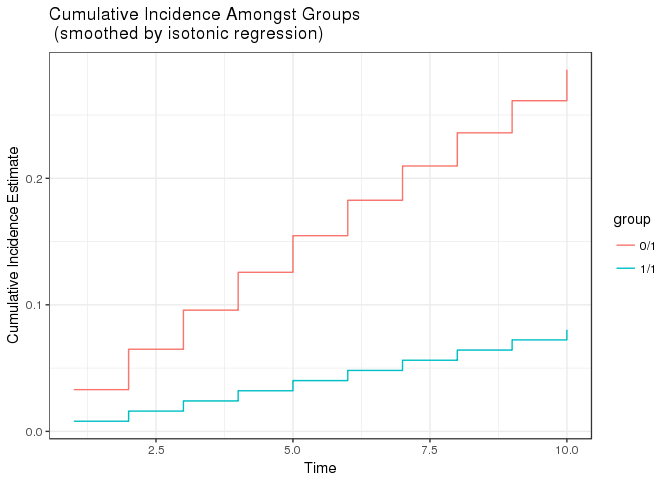
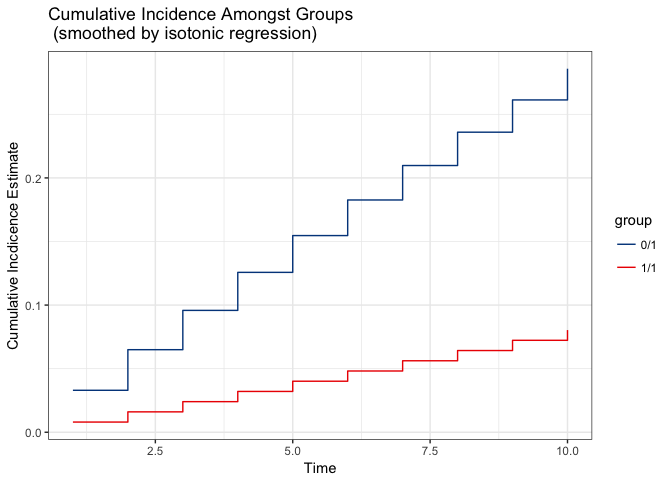
rebuild readme, site; re-style

diff --git a/docs/index.html b/docs/index.html
@@ -78,9 +78,7 @@
     
 <div class="contents">
 <!-- README.md is generated from README.Rmd. Please edit that file -->
-<div id="rsurvtmle" class="section level1">
-<div class="page-header"><h1 class="hasAnchor">
-<a href="#rsurvtmle" class="anchor"></a>R/<code>survtmle</code>
+<section id="rsurvtmle" class="level1"><div class="page-header"><h1>R/<code>survtmle</code>
 </h1></div>
 
 <blockquote>
@@ -88,19 +86,13 @@
 </blockquote>
 <p><strong>Authors:</strong> <a href="https://www.benkeserstatistics.com/">David Benkeser</a> and <a href="http://nimahejazi.org">Nima Hejazi</a></p>
 <hr>
-<div id="description" class="section level2">
-<h2 class="hasAnchor">
-<a href="#description" class="anchor"></a>Description</h2>
+<section id="description" class="level2"><h2>Description</h2>
 <p><code>survtmle</code> is an R package designed to use targeted minimum loss-based estimation (TMLE) to compute covariate-adjusted marginal cumulative incidence estimates in right-censored survival settings with and without competing risks. The estimates can leverage ensemble machine learning via the <code>SuperLearner</code> package.</p>
-<hr>
-</div>
-<div id="installation" class="section level2">
-<h2 class="hasAnchor">
-<a href="#installation" class="anchor"></a>Installation</h2>
+<hr></section><section id="installation" class="level2"><h2>Installation</h2>
 <p>For standard use, we recommend installing the package from <a href="https://cran.r-project.org/">CRAN</a> via</p>
-<div class="sourceCode"><pre class="sourceCode r"><code class="sourceCode r"><span class="kw">install.packages</span>(<span class="st">"survtmle"</span>)</code></pre></div>
+<div class="sourceCode" id="cb1"><pre class="sourceCode r"><code class="sourceCode r"><a class="sourceLine" id="cb1-1" data-line-number="1"><span class="kw">install.packages</span>(<span class="st">"survtmle"</span>)</a></code></pre></div>
 <p>You can install a stable release of <code>survtmle</code> from GitHub via <a href="https://www.rstudio.com/products/rpackages/devtools/"><code>devtools</code></a> with:</p>
-<div class="sourceCode"><pre class="sourceCode r"><code class="sourceCode r">devtools::<span class="kw">install_github</span>(<span class="st">"benkeser/survtmle"</span>)</code></pre></div>
+<div class="sourceCode" id="cb2"><pre class="sourceCode r"><code class="sourceCode r"><a class="sourceLine" id="cb2-1" data-line-number="1">devtools<span class="op">::</span><span class="kw"><a href="http://www.rdocumentation.org/packages/devtools/topics/install_github">install_github</a></span>(<span class="st">"benkeser/survtmle"</span>)</a></code></pre></div>
 <!--
 To contribute, install the _development version_ from GitHub via
 [`devtools`](https://www.rstudio.com/products/rpackages/devtools/):
@@ -110,77 +102,61 @@ To contribute, install the _development version_ from GitHub via
 devtools::install_github("benkeser/survtmle", ref = "develop")
 ```
 -->
-<hr>
-</div>
-<div id="issues" class="section level2">
-<h2 class="hasAnchor">
-<a href="#issues" class="anchor"></a>Issues</h2>
+<hr></section><section id="issues" class="level2"><h2>Issues</h2>
 <p>If you encounter any bugs or have any specific feature requests, please <a href="https://github.com/benkeser/survtmle/issues">file an issue</a>.</p>
-<hr>
-</div>
-<div id="example" class="section level2">
-<h2 class="hasAnchor">
-<a href="#example" class="anchor"></a>Example</h2>
+<hr></section><section id="example" class="level2"><h2>Example</h2>
 <p>This minimal example shows how to use <code>survtmle</code> to obtain cumulative incidence estimates with a very simple, simulated data set.</p>
-<div class="sourceCode"><pre class="sourceCode r"><code class="sourceCode r"><span class="co"># simulate data</span>
-<span class="kw">set.seed</span>(<span class="dv">341796</span>)
-n &lt;-<span class="st"> </span><span class="dv">100</span>
-t_0 &lt;-<span class="st"> </span><span class="dv">10</span>
-W &lt;-<span class="st"> </span><span class="kw">data.frame</span>(<span class="dt">W1 =</span> <span class="kw">runif</span>(n), <span class="dt">W2 =</span> <span class="kw">rbinom</span>(n, <span class="dv">1</span>, <span class="fl">0.5</span>))
-A &lt;-<span class="st"> </span><span class="kw">rbinom</span>(n, <span class="dv">1</span>, <span class="fl">0.5</span>)
-T &lt;-<span class="st"> </span><span class="kw">rgeom</span>(n,<span class="kw">plogis</span>(-<span class="dv">4</span> +<span class="st"> </span>W$W1 *<span class="st"> </span>W$W2 -<span class="st"> </span>A)) +<span class="st"> </span><span class="dv">1</span>
-C &lt;-<span class="st"> </span><span class="kw">rgeom</span>(n, <span class="kw">plogis</span>(-<span class="dv">6</span> +<span class="st"> </span>W$W1)) +<span class="st"> </span><span class="dv">1</span>
-ftime &lt;-<span class="st"> </span><span class="kw">pmin</span>(T, C)
-ftype &lt;-<span class="st"> </span><span class="kw">as.numeric</span>(ftime ==<span class="st"> </span>T)
-
-<span class="co"># load the package</span>
-<span class="kw">library</span>(survtmle)
-<span class="co">#&gt; survtmle: Targeted Learning for Survival Analysis</span>
-<span class="co">#&gt; Version: 1.0.3</span>
-
-<span class="co"># apply survtmle for estimation</span>
-fit &lt;-<span class="st"> </span><span class="kw"><a href="reference/survtmle.html">survtmle</a></span>(<span class="dt">ftime =</span> ftime, <span class="dt">ftype =</span> ftype,
-                <span class="dt">trt =</span> A, <span class="dt">adjustVars =</span> W,
-                <span class="dt">glm.trt =</span> <span class="st">"1"</span>,
-                <span class="dt">glm.ftime =</span> <span class="st">"I(W1*W2) + trt + t"</span>,
-                <span class="dt">glm.ctime =</span> <span class="st">"W1 + t"</span>, <span class="dt">method =</span> <span class="st">"hazard"</span>,
-                <span class="dt">t0 =</span> t_0)
-
-<span class="co"># extract cumulative incidence at each timepoint</span>
-tpfit &lt;-<span class="st"> </span><span class="kw"><a href="reference/timepoints.html">timepoints</a></span>(fit, <span class="dt">times =</span> <span class="kw">seq_len</span>(t_0))
-
-<span class="co"># examine output object produced by the timepoints function</span>
-tpfit
-<span class="co">#&gt; $est</span>
-<span class="co">#&gt;              t1         t2         t3         t4         t5         t6</span>
-<span class="co">#&gt; 0 1 0.032997470 0.06492788 0.09582530 0.12572293 0.15465313 0.18264737</span>
-<span class="co">#&gt; 1 1 0.008014555 0.01603567 0.02406256 0.03209448 0.04013064 0.04817027</span>
-<span class="co">#&gt;             t7         t8         t9        t10</span>
-<span class="co">#&gt; 0 1 0.20973629 0.23594966 0.26131640 0.28586459</span>
-<span class="co">#&gt; 1 1 0.05621257 0.06425675 0.07230203 0.08034761</span>
-<span class="co">#&gt; </span>
-<span class="co">#&gt; $var</span>
-<span class="co">#&gt;               t1           t2           t3           t4           t5</span>
-<span class="co">#&gt; 0 1 4.565496e-04 0.0005099637 0.0004951975 0.0004852183 0.0005862762</span>
-<span class="co">#&gt; 1 1 2.111604e-06 0.0003345475 0.0003208485 0.0003079889 0.0006317931</span>
-<span class="co">#&gt;               t6           t7           t8           t9         t10</span>
-<span class="co">#&gt; 0 1 0.0012883360 0.0013743743 0.0012847990 0.0020298371 0.003137739</span>
-<span class="co">#&gt; 1 1 0.0006229943 0.0009761833 0.0009544762 0.0009534062 0.000956650</span>
-
-<span class="co"># examine plot of cumulative incidences</span>
-<span class="kw">plot</span>(tpfit)</code></pre></div>
+<div class="sourceCode" id="cb3"><pre class="sourceCode r"><code class="sourceCode r"><a class="sourceLine" id="cb3-1" data-line-number="1"><span class="co"># simulate data</span></a>
+<a class="sourceLine" id="cb3-2" data-line-number="2"><span class="kw">set.seed</span>(<span class="dv">341796</span>)</a>
+<a class="sourceLine" id="cb3-3" data-line-number="3">n &lt;-<span class="st"> </span><span class="dv">100</span></a>
+<a class="sourceLine" id="cb3-4" data-line-number="4">t_<span class="dv">0</span> &lt;-<span class="st"> </span><span class="dv">10</span></a>
+<a class="sourceLine" id="cb3-5" data-line-number="5">W &lt;-<span class="st"> </span><span class="kw">data.frame</span>(<span class="dt">W1 =</span> <span class="kw">runif</span>(n), <span class="dt">W2 =</span> <span class="kw">rbinom</span>(n, <span class="dv">1</span>, <span class="fl">0.5</span>))</a>
+<a class="sourceLine" id="cb3-6" data-line-number="6">A &lt;-<span class="st"> </span><span class="kw">rbinom</span>(n, <span class="dv">1</span>, <span class="fl">0.5</span>)</a>
+<a class="sourceLine" id="cb3-7" data-line-number="7">T &lt;-<span class="st"> </span><span class="kw">rgeom</span>(n,<span class="kw">plogis</span>(<span class="op">-</span><span class="dv">4</span> <span class="op">+</span><span class="st"> </span>W<span class="op">$</span>W1 <span class="op">*</span><span class="st"> </span>W<span class="op">$</span>W2 <span class="op">-</span><span class="st"> </span>A)) <span class="op">+</span><span class="st"> </span><span class="dv">1</span></a>
+<a class="sourceLine" id="cb3-8" data-line-number="8">C &lt;-<span class="st"> </span><span class="kw">rgeom</span>(n, <span class="kw">plogis</span>(<span class="op">-</span><span class="dv">6</span> <span class="op">+</span><span class="st"> </span>W<span class="op">$</span>W1)) <span class="op">+</span><span class="st"> </span><span class="dv">1</span></a>
+<a class="sourceLine" id="cb3-9" data-line-number="9">ftime &lt;-<span class="st"> </span><span class="kw">pmin</span>(T, C)</a>
+<a class="sourceLine" id="cb3-10" data-line-number="10">ftype &lt;-<span class="st"> </span><span class="kw">as.numeric</span>(ftime <span class="op">==</span><span class="st"> </span>T)</a>
+<a class="sourceLine" id="cb3-11" data-line-number="11"></a>
+<a class="sourceLine" id="cb3-12" data-line-number="12"><span class="co"># load the package</span></a>
+<a class="sourceLine" id="cb3-13" data-line-number="13"><span class="kw">library</span>(survtmle)</a>
+<a class="sourceLine" id="cb3-14" data-line-number="14"><span class="co">#&gt; survtmle: Targeted Learning for Survival Analysis</span></a>
+<a class="sourceLine" id="cb3-15" data-line-number="15"><span class="co">#&gt; Version: 1.0.3</span></a>
+<a class="sourceLine" id="cb3-16" data-line-number="16"></a>
+<a class="sourceLine" id="cb3-17" data-line-number="17"><span class="co"># apply survtmle for estimation</span></a>
+<a class="sourceLine" id="cb3-18" data-line-number="18">fit &lt;-<span class="st"> </span><span class="kw"><a href="reference/survtmle.html">survtmle</a></span>(<span class="dt">ftime =</span> ftime, <span class="dt">ftype =</span> ftype,</a>
+<a class="sourceLine" id="cb3-19" data-line-number="19">                <span class="dt">trt =</span> A, <span class="dt">adjustVars =</span> W,</a>
+<a class="sourceLine" id="cb3-20" data-line-number="20">                <span class="dt">glm.trt =</span> <span class="st">"1"</span>,</a>
+<a class="sourceLine" id="cb3-21" data-line-number="21">                <span class="dt">glm.ftime =</span> <span class="st">"I(W1*W2) + trt + t"</span>,</a>
+<a class="sourceLine" id="cb3-22" data-line-number="22">                <span class="dt">glm.ctime =</span> <span class="st">"W1 + t"</span>, <span class="dt">method =</span> <span class="st">"hazard"</span>,</a>
+<a class="sourceLine" id="cb3-23" data-line-number="23">                <span class="dt">t0 =</span> t_<span class="dv">0</span>)</a>
+<a class="sourceLine" id="cb3-24" data-line-number="24"></a>
+<a class="sourceLine" id="cb3-25" data-line-number="25"><span class="co"># extract cumulative incidence at each timepoint</span></a>
+<a class="sourceLine" id="cb3-26" data-line-number="26">tpfit &lt;-<span class="st"> </span><span class="kw"><a href="reference/timepoints.html">timepoints</a></span>(fit, <span class="dt">times =</span> <span class="kw">seq_len</span>(t_<span class="dv">0</span>))</a>
+<a class="sourceLine" id="cb3-27" data-line-number="27"></a>
+<a class="sourceLine" id="cb3-28" data-line-number="28"><span class="co"># examine output object produced by the timepoints function</span></a>
+<a class="sourceLine" id="cb3-29" data-line-number="29">tpfit</a>
+<a class="sourceLine" id="cb3-30" data-line-number="30"><span class="co">#&gt; $est</span></a>
+<a class="sourceLine" id="cb3-31" data-line-number="31"><span class="co">#&gt;              t1         t2         t3         t4         t5         t6</span></a>
+<a class="sourceLine" id="cb3-32" data-line-number="32"><span class="co">#&gt; 0 1 0.032997470 0.06492788 0.09582530 0.12572293 0.15465313 0.18264737</span></a>
+<a class="sourceLine" id="cb3-33" data-line-number="33"><span class="co">#&gt; 1 1 0.008014555 0.01603567 0.02406256 0.03209448 0.04013064 0.04817027</span></a>
+<a class="sourceLine" id="cb3-34" data-line-number="34"><span class="co">#&gt;             t7         t8         t9        t10</span></a>
+<a class="sourceLine" id="cb3-35" data-line-number="35"><span class="co">#&gt; 0 1 0.20973629 0.23594966 0.26131640 0.28586459</span></a>
+<a class="sourceLine" id="cb3-36" data-line-number="36"><span class="co">#&gt; 1 1 0.05621257 0.06425675 0.07230203 0.08034761</span></a>
+<a class="sourceLine" id="cb3-37" data-line-number="37"><span class="co">#&gt; </span></a>
+<a class="sourceLine" id="cb3-38" data-line-number="38"><span class="co">#&gt; $var</span></a>
+<a class="sourceLine" id="cb3-39" data-line-number="39"><span class="co">#&gt;               t1           t2           t3           t4           t5</span></a>
+<a class="sourceLine" id="cb3-40" data-line-number="40"><span class="co">#&gt; 0 1 4.565496e-04 0.0005099637 0.0004951975 0.0004852183 0.0005862762</span></a>
+<a class="sourceLine" id="cb3-41" data-line-number="41"><span class="co">#&gt; 1 1 2.111604e-06 0.0003345475 0.0003208485 0.0003079889 0.0006317931</span></a>
+<a class="sourceLine" id="cb3-42" data-line-number="42"><span class="co">#&gt;               t6           t7           t8           t9         t10</span></a>
+<a class="sourceLine" id="cb3-43" data-line-number="43"><span class="co">#&gt; 0 1 0.0012883360 0.0013743743 0.0012847990 0.0020298371 0.003137739</span></a>
+<a class="sourceLine" id="cb3-44" data-line-number="44"><span class="co">#&gt; 1 1 0.0006229943 0.0009761833 0.0009544762 0.0009534062 0.000956650</span></a>
+<a class="sourceLine" id="cb3-45" data-line-number="45"></a>
+<a class="sourceLine" id="cb3-46" data-line-number="46"><span class="co"># examine plot of cumulative incidences</span></a>
+<a class="sourceLine" id="cb3-47" data-line-number="47"><span class="kw">plot</span>(tpfit)</a></code></pre></div>
 <p><img src="README-example-1.png" width="672" style="display: block; margin: auto;"></p>
-<hr>
-</div>
-<div id="contributions" class="section level2">
-<h2 class="hasAnchor">
-<a href="#contributions" class="anchor"></a>Contributions</h2>
+<hr></section><section id="contributions" class="level2"><h2>Contributions</h2>
 <p>It is our hope that <code>survtmle</code> will grow to be widely used in health and medical studies where the substantive scientific questions concern parameters for which estimation and inference can be obtain nonparametrically, in settings involving right-censoring. To that end, contributions are very welcome, though we ask that interested contributors consult our <a href="https://github.com/benkeser/survtmle/blob/master/CONTRIBUTING.md"><code>contribution guidelines</code></a> prior to submitting a pull request.</p>
-<hr>
-</div>
-<div id="citation" class="section level2">
-<h2 class="hasAnchor">
-<a href="#citation" class="anchor"></a>Citation</h2>
+<hr></section><section id="citation" class="level2"><h2>Citation</h2>
 <p>After using the <code>survtmle</code> R package, please cite both of the following:</p>
 <pre><code>    @misc{benkeser2017survtmle,
       author = {Benkeser, David C and Hejazi, Nima S},
@@ -201,11 +177,7 @@ tpfit
       year  = {2017},
       doi = {10.1002/sim.7337}
     }</code></pre>
-<hr>
-</div>
-<div id="license" class="section level2">
-<h2 class="hasAnchor">
-<a href="#license" class="anchor"></a>License</h2>
+<hr></section><section id="license" class="level2"><h2>License</h2>
 <p>© 2016-2017 <a href="http://www.benkeserstatistics.com">David C. Benkeser</a></p>
 <p>The contents of this repository are distributed under the MIT license. See below for details:</p>
 <pre><code>The MIT License (MIT)
@@ -229,8 +201,7 @@ AUTHORS OR COPYRIGHT HOLDERS BE LIABLE FOR ANY CLAIM, DAMAGES OR OTHER
 LIABILITY, WHETHER IN AN ACTION OF CONTRACT, TORT OR OTHERWISE, ARISING FROM,
 OUT OF OR IN CONNECTION WITH THE SOFTWARE OR THE USE OR OTHER DEALINGS IN THE
 SOFTWARE.</code></pre>
-</div>
-</div>
+</section></section>
 </div>
   </div>
 

diff --git a/README.md b/README.md
@@ -1,33 +1,53 @@
 
 <!-- README.md is generated from README.Rmd. Please edit that file -->
-R/`survtmle`
-============
 
-[![Travis-CI Build Status](https://travis-ci.org/benkeser/survtmle.svg?branch=master)](https://travis-ci.org/benkeser/survtmle) [![AppVeyor Build Status](https://ci.appveyor.com/api/projects/status/github/benkeser/survtmle?branch=master&svg=true)](https://ci.appveyor.com/project/benkeser/survtmle) [![Coverage Status](https://img.shields.io/codecov/c/github/benkeser/survtmle/master.svg)](https://codecov.io/github/benkeser/survtmle?branch=master) [![CRAN](http://www.r-pkg.org/badges/version/survtmle)](http://www.r-pkg.org/pkg/survtmle) [![CRAN downloads](https://cranlogs.r-pkg.org/badges/survtmle)](https://CRAN.R-project.org/package=survtmle) [![Project Status: Active – The project has reached a stable, usable state and is being actively developed.](http://www.repostatus.org/badges/latest/active.svg)](http://www.repostatus.org/#active) [![MIT license](http://img.shields.io/badge/license-MIT-brightgreen.svg)](http://opensource.org/licenses/MIT) [![DOI](https://zenodo.org/badge/DOI/10.5281/zenodo.835868.svg)](https://doi.org/10.5281/zenodo.835868)
+# R/`survtmle`
 
-> Targeted Minimum Loss-Based Estimation (TMLE) for Survival Analysis with Competing Risks
+[![Travis-CI Build
+Status](https://travis-ci.org/benkeser/survtmle.svg?branch=master)](https://travis-ci.org/benkeser/survtmle)
+[![AppVeyor Build
+Status](https://ci.appveyor.com/api/projects/status/github/benkeser/survtmle?branch=master&svg=true)](https://ci.appveyor.com/project/benkeser/survtmle)
+[![Coverage
+Status](https://img.shields.io/codecov/c/github/benkeser/survtmle/master.svg)](https://codecov.io/github/benkeser/survtmle?branch=master)
+[![CRAN](http://www.r-pkg.org/badges/version/survtmle)](http://www.r-pkg.org/pkg/survtmle)
+[![CRAN
+downloads](https://cranlogs.r-pkg.org/badges/survtmle)](https://CRAN.R-project.org/package=survtmle)
+[![Project Status: Active – The project has reached a stable, usable
+state and is being actively
+developed.](http://www.repostatus.org/badges/latest/active.svg)](http://www.repostatus.org/#active)
+[![MIT
+license](http://img.shields.io/badge/license-MIT-brightgreen.svg)](http://opensource.org/licenses/MIT)
+[![DOI](https://zenodo.org/badge/DOI/10.5281/zenodo.835868.svg)](https://doi.org/10.5281/zenodo.835868)
 
-**Authors:** [David Benkeser](https://www.benkeserstatistics.com/) and [Nima Hejazi](http://nimahejazi.org)
+> Targeted Minimum Loss-Based Estimation (TMLE) for Survival Analysis
+> with Competing Risks
 
-------------------------------------------------------------------------
+**Authors:** [David Benkeser](https://www.benkeserstatistics.com/) and
+[Nima Hejazi](http://nimahejazi.org)
 
-Description
------------
+-----
 
-`survtmle` is an R package designed to use targeted minimum loss-based estimation (TMLE) to compute covariate-adjusted marginal cumulative incidence estimates in right-censored survival settings with and without competing risks. The estimates can leverage ensemble machine learning via the `SuperLearner` package.
+## Description
 
-------------------------------------------------------------------------
+`survtmle` is an R package designed to use targeted minimum loss-based
+estimation (TMLE) to compute covariate-adjusted marginal cumulative
+incidence estimates in right-censored survival settings with and without
+competing risks. The estimates can leverage ensemble machine learning
+via the `SuperLearner` package.
 
-Installation
-------------
+-----
 
-For standard use, we recommend installing the package from [CRAN](https://cran.r-project.org/) via
+## Installation
+
+For standard use, we recommend installing the package from
+[CRAN](https://cran.r-project.org/) via
 
 ``` r
 install.packages("survtmle")
 ```
 
-You can install a stable release of `survtmle` from GitHub via [`devtools`](https://www.rstudio.com/products/rpackages/devtools/) with:
+You can install a stable release of `survtmle` from GitHub via
+[`devtools`](https://www.rstudio.com/products/rpackages/devtools/) with:
 
 ``` r
 devtools::install_github("benkeser/survtmle")
@@ -43,19 +63,19 @@ devtools::install_github("benkeser/survtmle", ref = "develop")
 ```
 -->
 
-------------------------------------------------------------------------
+-----
 
-Issues
-------
+## Issues
 
-If you encounter any bugs or have any specific feature requests, please [file an issue](https://github.com/benkeser/survtmle/issues).
+If you encounter any bugs or have any specific feature requests, please
+[file an issue](https://github.com/benkeser/survtmle/issues).
 
-------------------------------------------------------------------------
+-----
 
-Example
--------
+## Example
 
-This minimal example shows how to use `survtmle` to obtain cumulative incidence estimates with a very simple, simulated data set.
+This minimal example shows how to use `survtmle` to obtain cumulative
+incidence estimates with a very simple, simulated data set.
 
 ``` r
 # simulate data
@@ -109,63 +129,70 @@ plot(tpfit)
 
 <img src="README-example-1.png" style="display: block; margin: auto;" />
 
-------------------------------------------------------------------------
+-----
 
-Contributions
--------------
+## Contributions
 
-It is our hope that `survtmle` will grow to be widely used in health and medical studies where the substantive scientific questions concern parameters for which estimation and inference can be obtain nonparametrically, in settings involving right-censoring. To that end, contributions are very welcome, though we ask that interested contributors consult our [`contribution guidelines`](https://github.com/benkeser/survtmle/blob/master/CONTRIBUTING.md) prior to submitting a pull request.
+It is our hope that `survtmle` will grow to be widely used in health and
+medical studies where the substantive scientific questions concern
+parameters for which estimation and inference can be obtain
+nonparametrically, in settings involving right-censoring. To that end,
+contributions are very welcome, though we ask that interested
+contributors consult our [`contribution
+guidelines`](https://github.com/benkeser/survtmle/blob/master/CONTRIBUTING.md)
+prior to submitting a pull request.
 
-------------------------------------------------------------------------
+-----
 
-Citation
---------
+## Citation
 
 After using the `survtmle` R package, please cite both of the following:
 
-        @misc{benkeser2017survtmle,
-          author = {Benkeser, David C and Hejazi, Nima S},
-          title = {{survtmle}: Targeted Minimum Loss-Based Estimation for
-                   Survival Analysis in {R}},
-          year  = {2017},
-          howpublished = {\url{https://github.com/benkeser/survtmle}},
-          url = {http://dx.doi.org/10.5281/zenodo.835868},
-          doi = {10.5281/zenodo.835868}
-        }
+``` 
+    @misc{benkeser2017survtmle,
+      author = {Benkeser, David C and Hejazi, Nima S},
+      title = {{survtmle}: Targeted Minimum Loss-Based Estimation for
+               Survival Analysis in {R}},
+      year  = {2017},
+      howpublished = {\url{https://github.com/benkeser/survtmle}},
+      url = {http://dx.doi.org/10.5281/zenodo.835868},
+      doi = {10.5281/zenodo.835868}
+    }
 
-        @article{benkeser2017improved,
-          author = {Benkeser, David C and Carone, Marco and Gilbert, Peter B},
-          title = {Improved estimation of the cumulative incidence of rare
-                   outcomes},
-          journal = {Statistics in Medicine},
-          publisher = {Wiley-Blackwell},
-          year  = {2017},
-          doi = {10.1002/sim.7337}
-        }
+    @article{benkeser2017improved,
+      author = {Benkeser, David C and Carone, Marco and Gilbert, Peter B},
+      title = {Improved estimation of the cumulative incidence of rare
+               outcomes},
+      journal = {Statistics in Medicine},
+      publisher = {Wiley-Blackwell},
+      year  = {2017},
+      doi = {10.1002/sim.7337}
+    }
+```
 
-------------------------------------------------------------------------
+-----
 
-License
--------
+## License
 
 © 2016-2017 [David C. Benkeser](http://www.benkeserstatistics.com)
 
-The contents of this repository are distributed under the MIT license. See below for details:
+The contents of this repository are distributed under the MIT license.
+See below for details:
 
     The MIT License (MIT)
-
+    
     Copyright (c) 2016-2017 David C. Benkeser
-
+    
     Permission is hereby granted, free of charge, to any person obtaining a copy
     of this software and associated documentation files (the "Software"), to deal
     in the Software without restriction, including without limitation the rights
     to use, copy, modify, merge, publish, distribute, sublicense, and/or sell
     copies of the Software, and to permit persons to whom the Software is
     furnished to do so, subject to the following conditions:
-
+    
     The above copyright notice and this permission notice shall be included in all
     copies or substantial portions of the Software.
-
+    
     THE SOFTWARE IS PROVIDED "AS IS", WITHOUT WARRANTY OF ANY KIND, EXPRESS OR
     IMPLIED, INCLUDING BUT NOT LIMITED TO THE WARRANTIES OF MERCHANTABILITY,
     FITNESS FOR A PARTICULAR PURPOSE AND NONINFRINGEMENT. IN NO EVENT SHALL THE
